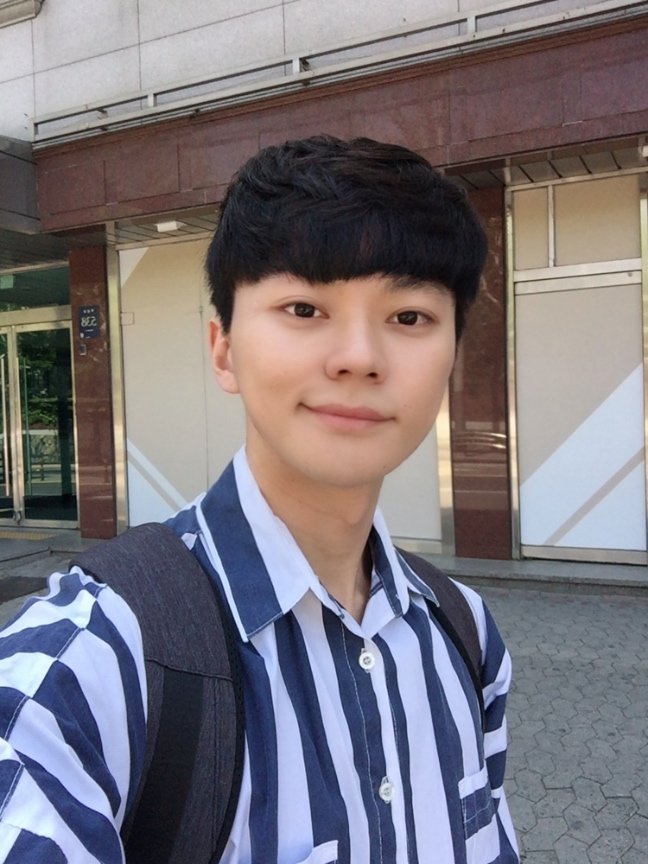
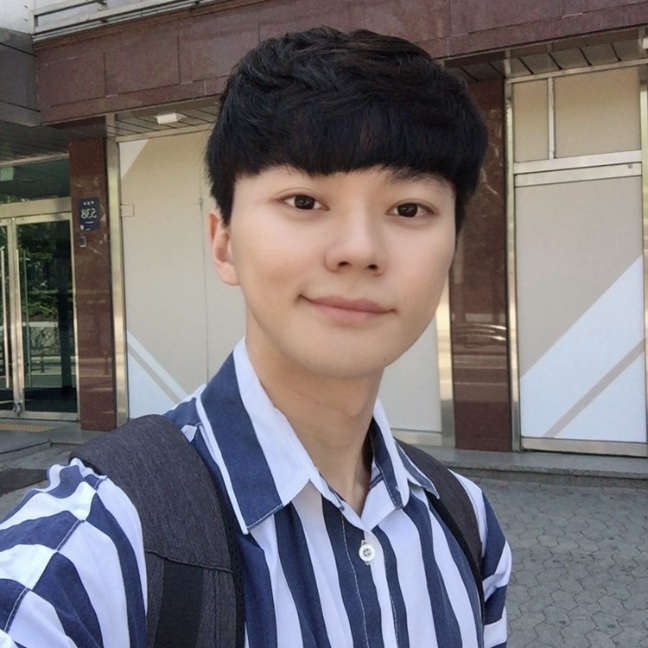
after submit 6th

diff --git a/_layouts/default.html b/_layouts/default.html
@@ -10,7 +10,7 @@
 		<meta name="generator" content="Jekyll v{{ jekyll.version }}">
 
 		<!--[if lte IE 8]><script src="/js/ie/html5shiv.js"></script><![endif]-->
-		<link rel="stylesheet" href="//maxcdn.bootstrapcdn.com/font-awesome/4.5.0/css/font-awesome.min.css" type="text/css">
+		<!--<link rel="stylesheet" href="//maxcdn.bootstrapcdn.com/font-awesome/4.5.0/css/font-awesome.min.css" type="text/css">-->
 		<link rel="stylesheet" href="/css/main.css">
 		<!--[if lte IE 8]><link rel="stylesheet" href="/css/ie8.css" /><![endif]-->
 
@@ -25,42 +25,39 @@
 
 	<body id="top">
     <header id="header">
-      <a href="{{ site.url }}" class="image avatar"><img class="editable" src="/images/avatar.jpg" alt="{{ site.author.name }}"></a>
-      <h1 class="editable"><strong><font size="4em">Hi, I am </font> <font size="6em" style="color:Dodgerblue">Hoon Jin Jung</font><br>
-				<font size="4em"> -An Engineer Struggling To Make The World a Better Place. <br></font>
-			<font size="4em"> -I am currently preparing to join a Ph.D program.</font><br><br>
-
-			<li><a href="https://davidhoonjin.github.io/2020/03/14/Education/" style="font-size:15px; border-color:gainsboro"><font size="5em" style="color:Dodgerblue">EDUCATION</font></a></li>
-			<li><a href="https://davidhoonjin.github.io/2020/02/03/Current-Projects/" style="font-size:15px; border-color:gainsboro"><font size="5em" style="color:Dodgerblue">PROJECTS</font></a></li>
-			<li><a href="https://davidhoonjin.github.io/2019/12/30/Awards/" style="font-size:15px; border-color:gainsboro"><font size="5em" style="color:Dodgerblue">HONNORS & AWARDS</font></a></li>
-			<br>
-			<ul class="icons">
-        {% for account in site.data.social %}
-				<!--
+      <a href="{{ site.url }}" width="200"><img class="editable" style="
+border: 3px solid black;
+border-radius: 90px;
+" src="/images/avatar.jpg" alt="{{ site.author.name }}" width="200"></a>
+      <h1 class="editable"><strong><span style = " font-size:1.5em;  color: Dodgerblue; line-height: 1; font-family:"Gilroy Extra Bold",Gilroy;">Hoon Jin Jung</span><br>
+			<!--<font size="4em"><P style=" color:white; line-height: 120%;"> -I am a prospective Ph.D. applicant.</P></font>-->
+				<ul class="icons">
+	        {% for account in site.data.social %}
+					{% endfor %}
+	        {% if site.author.email %}
 					<li>
-						<a {% if account.new_window %}target="_blank"{% endif %} href="{% include relative-src.html src=account.link %}" {% if account.social_icon %}class="icon fa-{{ account.social_icon | slugify }}"{% endif %}>
-              <span class="label">{{ account.name }}</span>
-						</a>
+	          <a href="{{ site.url }}" i class="fa fa-home"style="font-size:20px;color:white;line-height: 20%;"></i>
+	            <span class="label"></span>
+	          </a>
+	        </li>
+	        <li>
+	          <a href="mailto:davidhoonjin@gmail.com" i class="icon fa-envelope-o"style="font-size:13px;line-height: 20%;;color:white"></i>
+	            <span class="label">Email</span>
+	          </a>
+	        </li>
+					<li>
+						<a href="/images/CV.pdf" target="_blank"><font size="4em"><u><b><p style="color:white;line-height: 20%;">CV</p></b></u></font></a>
+						<span class="label"></span>
 					</li>
--->
-				{% endfor %}
-        {% if site.author.email %}
-				<li>
-          <a href="{{ site.url }}" i class="fa fa-home"style="font-size:38px;color:white"></i>
-            <span class="label"></span>
-          </a>
-        </li>
-        <li>
-          <a href="mailto:davidhoonjin@gmail.com" i class="icon fa-envelope-o"style="font-size:24px;color:white"></i>
-            <span class="label">Email</span>
-          </a>
-        </li>
-				<li>
-					<a href="/images/CV.pdf" target="_blank"><font size="6.5em"><u><b><p style="color:white;">CV</p></b></u></font></a>
-					<span class="label"></span>
-				</li>
-        {% endif %}
-      </ul>
+	        {% endif %}
+					</ul>
+					<font size="5em" style="color:Dodgerblue; line-height: 120%; font-family:"Gilroy Extra Bold", Gilroy; "><li><a href="https://davidhoonjin.github.io/2020/03/14/Education/" style="font-size:19px; border-color:gainsboro">EDUCATION</a></li>
+					<li><a href="https://davidhoonjin.github.io/2020/02/03/Current-Projects/" style="font-size:19px; border-color:gainsboro">PROJECTS</a></li>
+					<li><a href="https://davidhoonjin.github.io/2019/12/30/Awards/" style="font-size:19px; border-color:gainsboro">HONNORS & AWARDS</a></li></font>
+
+
+
+
 		</a></strong>
     </header>1
 
